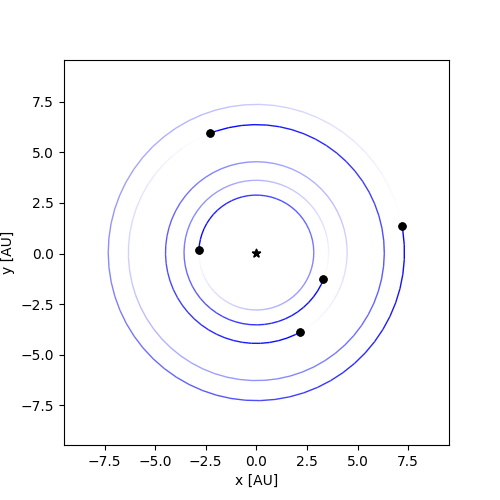
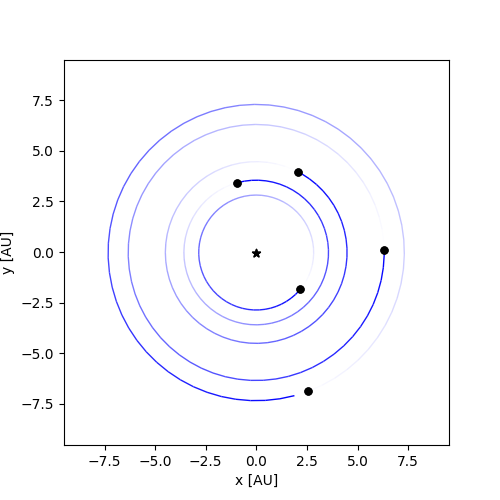
orbit sims :)

diff --git a/Reboundtest.py b/Reboundtest.py
@@ -2,20 +2,20 @@ import rebound
 
 sim = rebound.Simulation()
 
-sim.units = ('yr','AU','Mearth')
+sim.units = ('yr','AU','Msun')
 
 #star/COM, convert Msun to Mearth (multiply by 332946)
-sim.add(m=0.83*332946)
+sim.add(m=0.83)
 #1151.01
-sim.add(m=1, P=10.43545334)
+sim.add(m=1/332946, P=10.43545334,theta=8.475163889910444)
 #1151.02
-sim.add(m=1,P=7.41088006)
+sim.add(m=1/332946,P=7.41088006,theta=8.45398854570443)
 #1151.03
-sim.add(m=1,P=5.24969846)
+sim.add(m=1/332946,P=5.24969846,theta=8.875948944787911)
 #1151.04
-sim.add(m=1,P=17.45319318)
+sim.add(m=1/332946,P=17.45319318,theta=-1.8488879509549183)
 #1151.05
-sim.add(m=1,P=21.72027051)
+sim.add(m=1/332946,P=21.72027051,theta=4.824742488707509)
 
 sim.integrate(1000)
 

diff --git a/intialangle.py b/intialangle.py
@@ -1,0 +1,8 @@
+import math
+
+period = 21.72027051
+T0 = 784.535465
+
+theta0 = (2*math.pi / period) + (T0 - 780)
+print(theta0)
+
